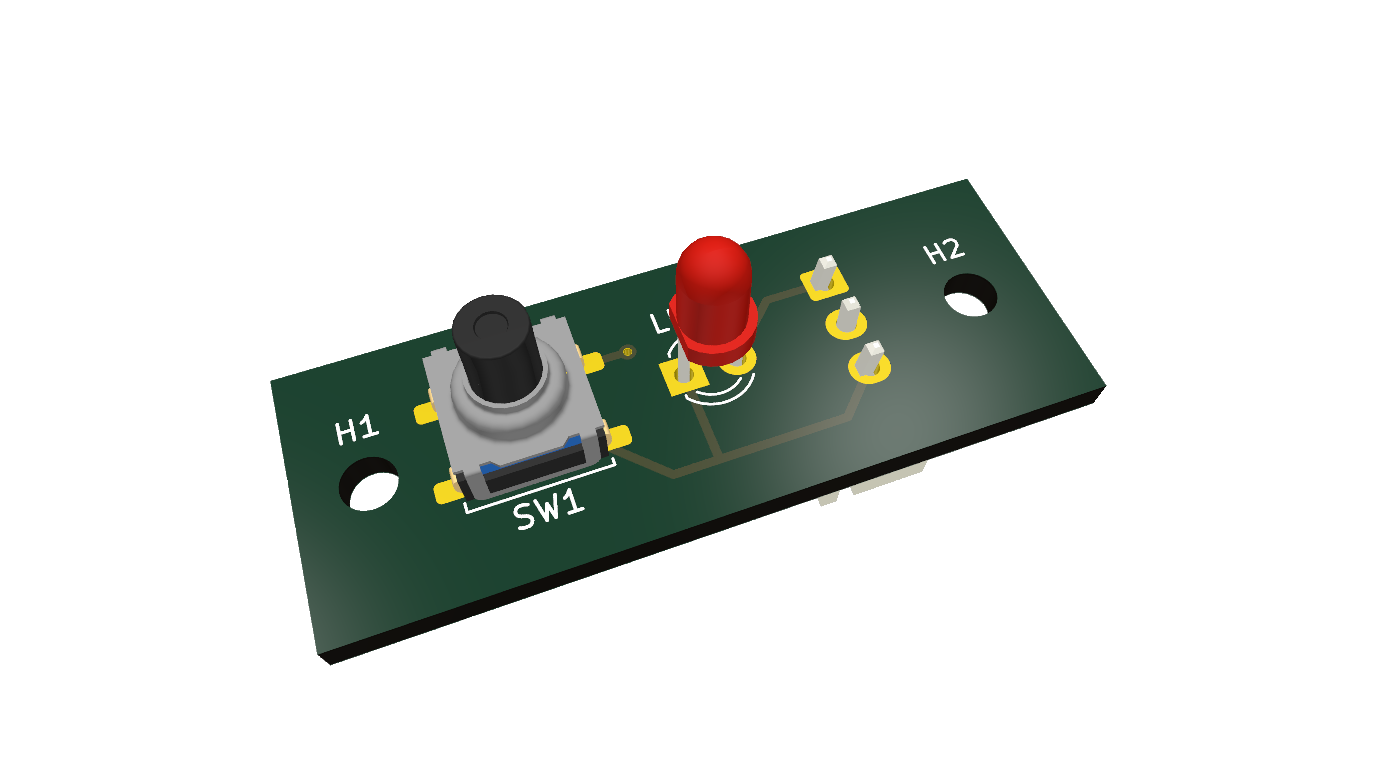
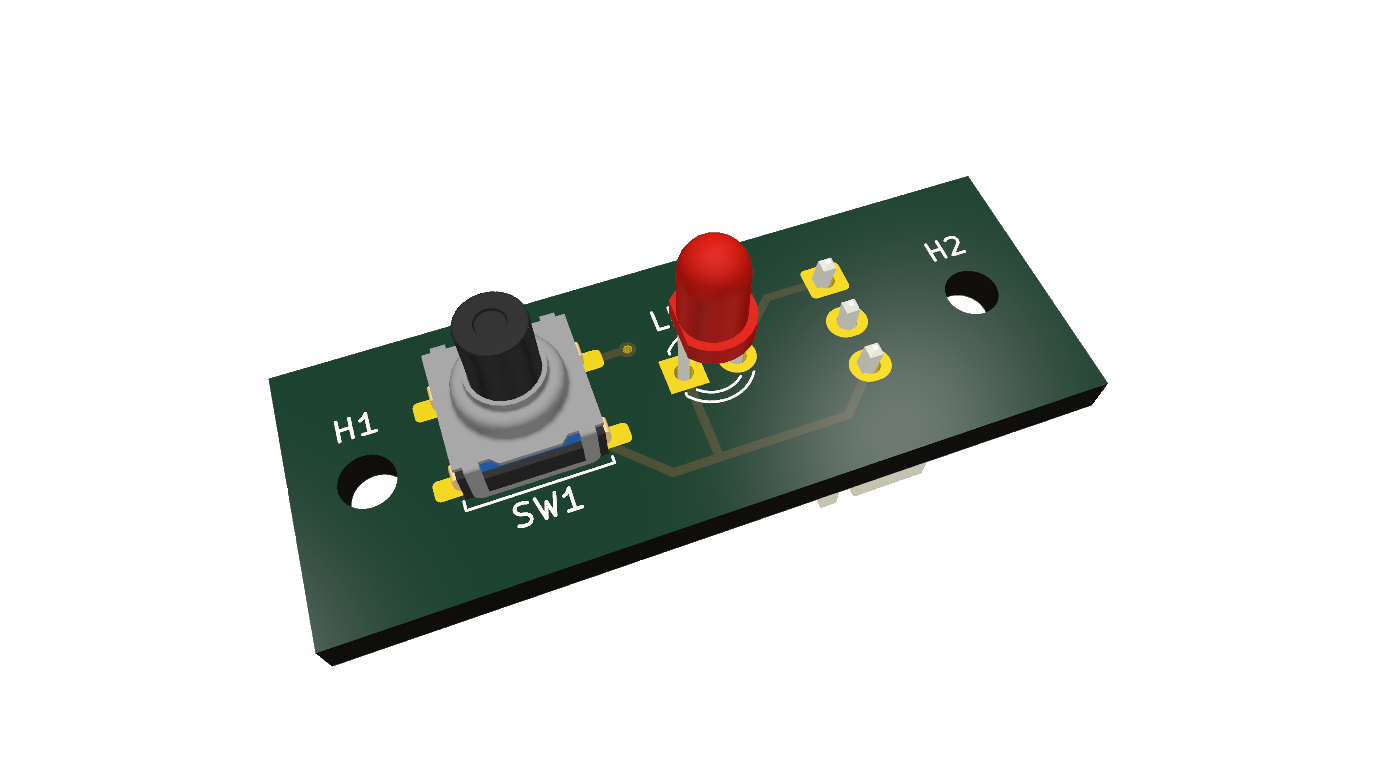
UI daughter board: 2.0mm FR4 (4 M3 threads in the tapped holes)

diff --git a/.docs/hardware.md b/.docs/hardware.md
@@ -607,13 +607,16 @@ on the outside of the hull, as on the Jeti SPS-20.
   board.
 - **Cable**: 3-wire JST-XH, crimped to length, pin 1 ↔ pin 1 (1 LED_A,
   2 BTN, 3 GND).
-- **Board**: 35 × 13mm, 2 layers, two **tapped M3 holes** (H1/H2): 2.5mm
+- **Board**: 35 × 13mm, **2.0mm FR4** (order option at JLCPCB; the main
+  board stays 1.6mm), 2 layers, two **tapped M3 holes** (H1/H2): 2.5mm
   tap drill, 28.5mm apart on the board's centreline, H1 3.2mm from the
   left edge. The board itself is tapped M3 and the screws come in from
   the housing, so no head/washer/nut clearance is needed on the board,
   only ~2mm around the thread (project-local footprint
-  `heimdall-switch-ui:MountingHole_2.5mm_M3_Tapped`). 1.6mm FR4 holds ~3
-  threads: fine for clamping a light board, don't over-tighten. From H1:
+  `heimdall-switch-ui:MountingHole_2.5mm_M3_Tapped`). 2.0mm FR4 holds 4
+  threads (0.5mm pitch; 1.6mm would give ~3) and is stiffer under button
+  presses: fine for clamping a light board, don't over-tighten. Worn
+  threads: drill to 3.2mm and use screw + nut. From H1:
   button centre +6.8mm, LED centre +15.6mm, all on the centreline. LED
   and button on the front, facing out; the XH header is mounted on the
   **back**, so the cable leaves straight backwards. Back silk carries the
